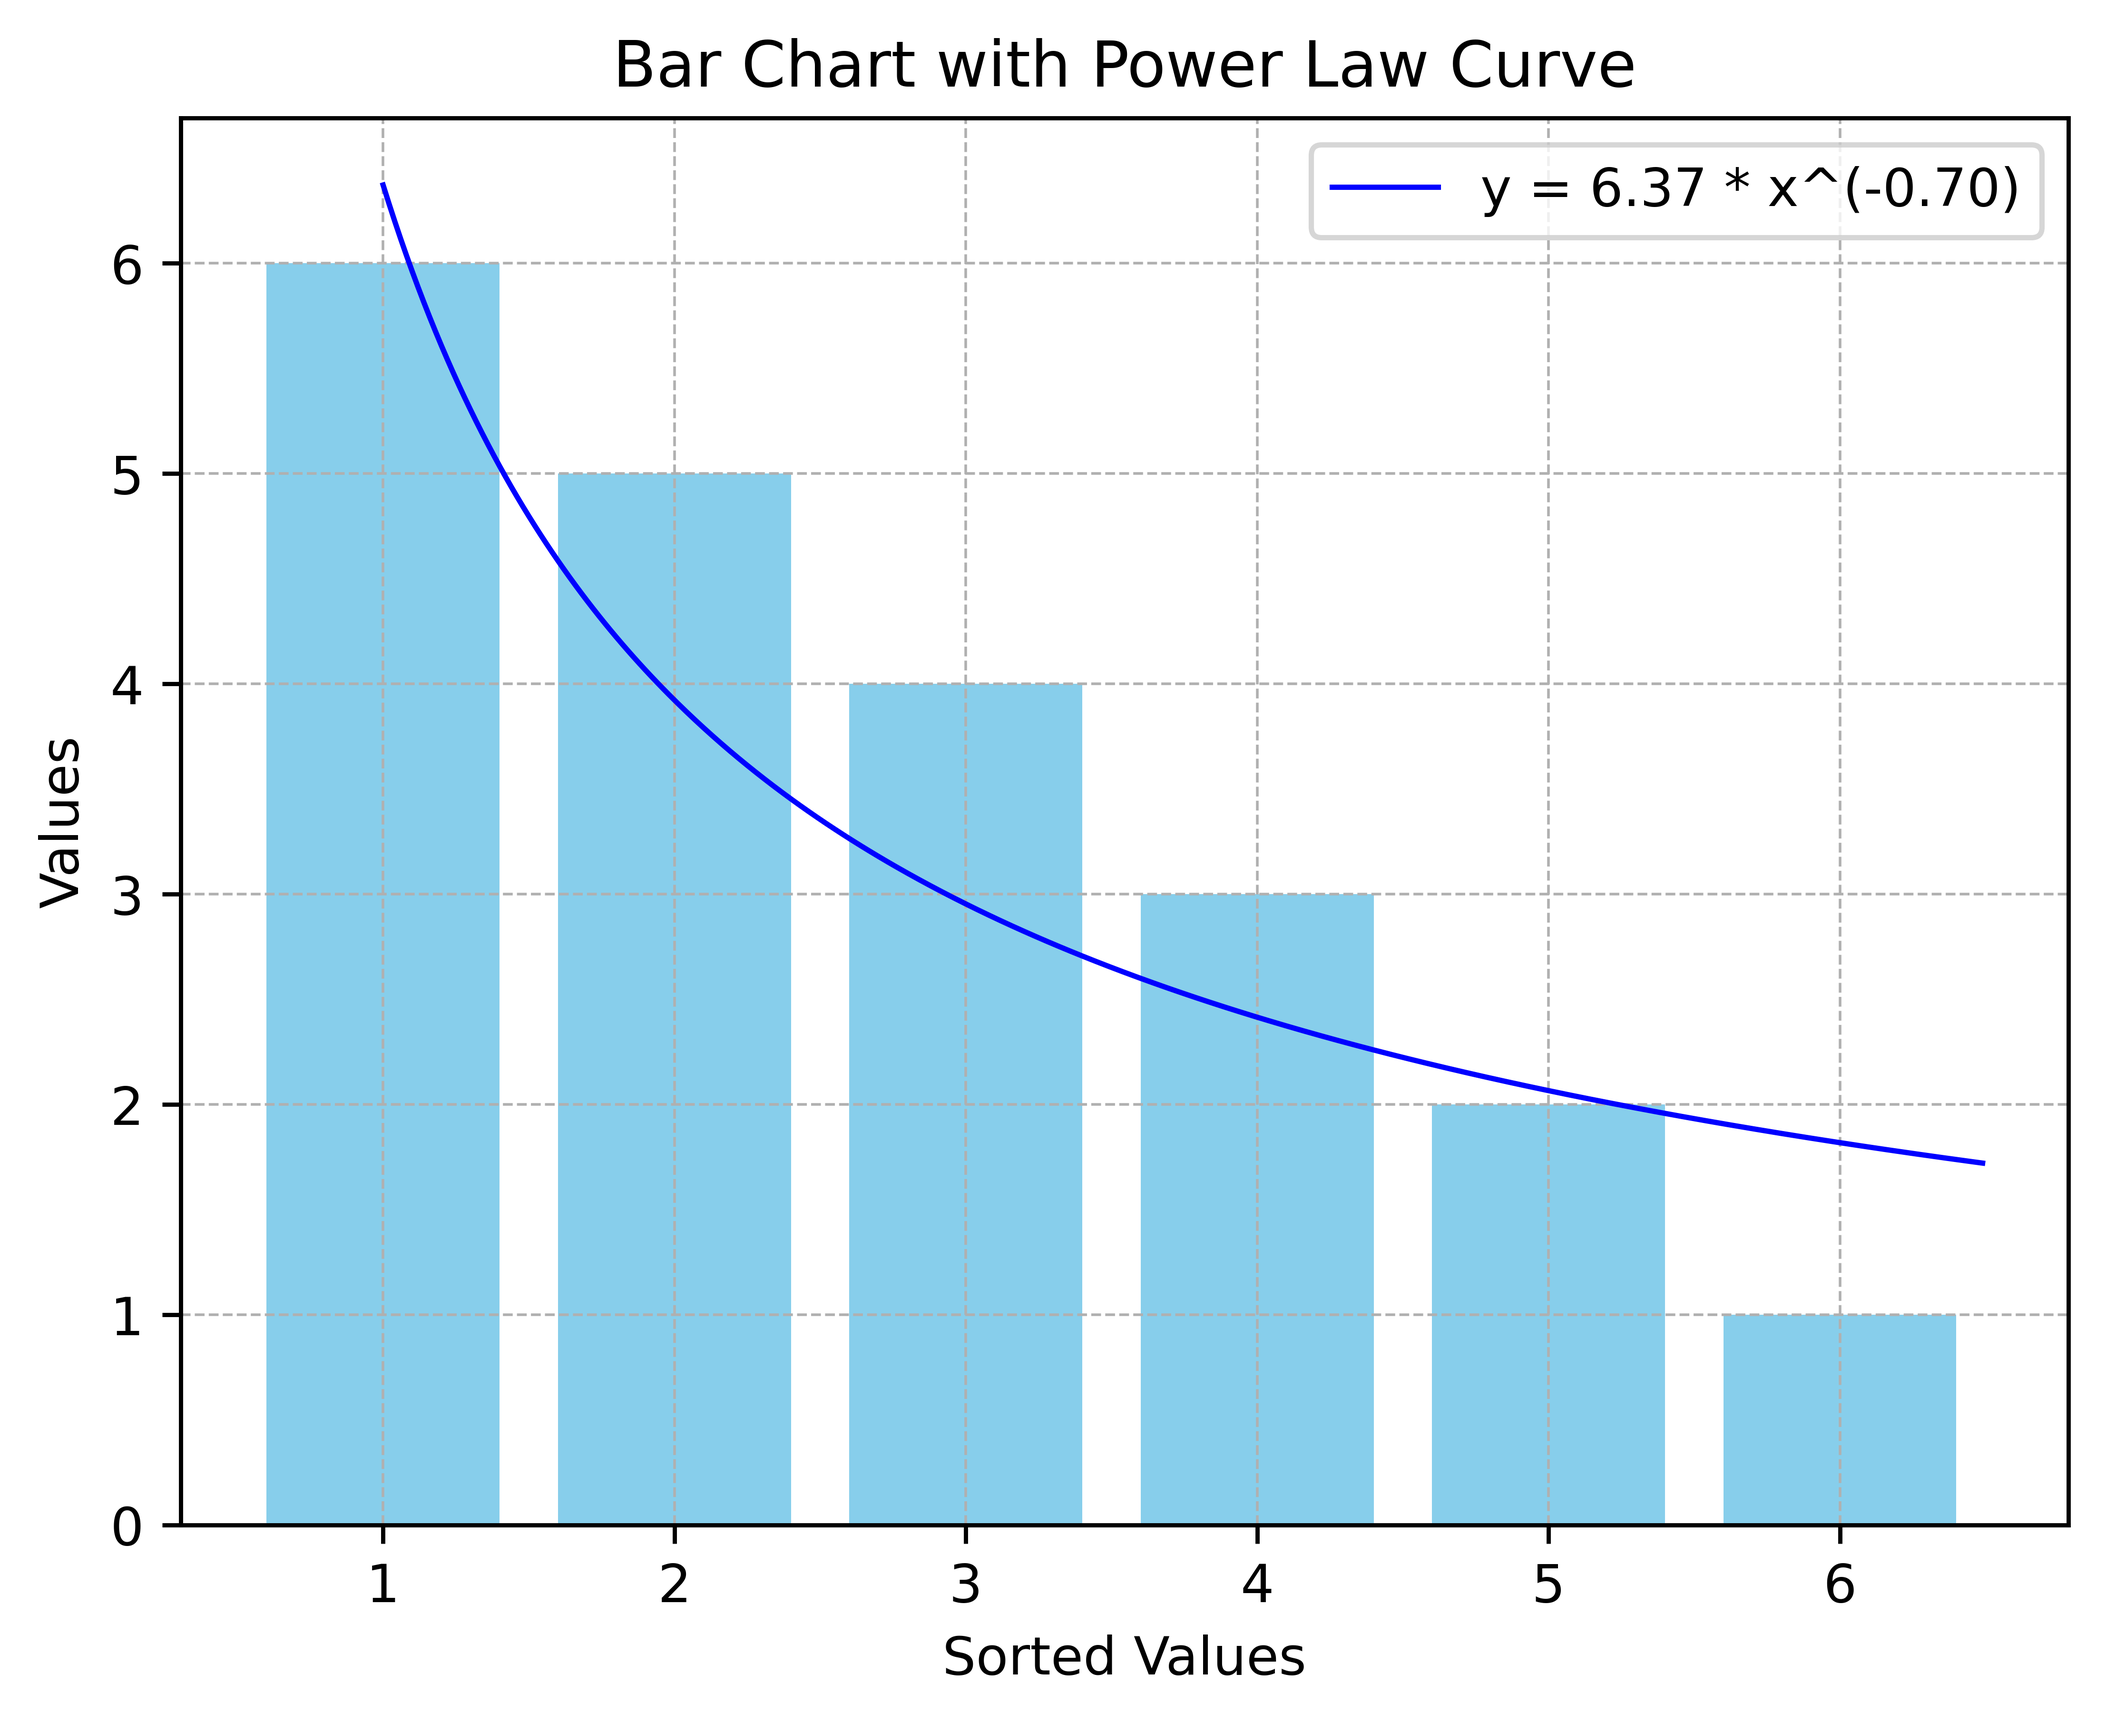
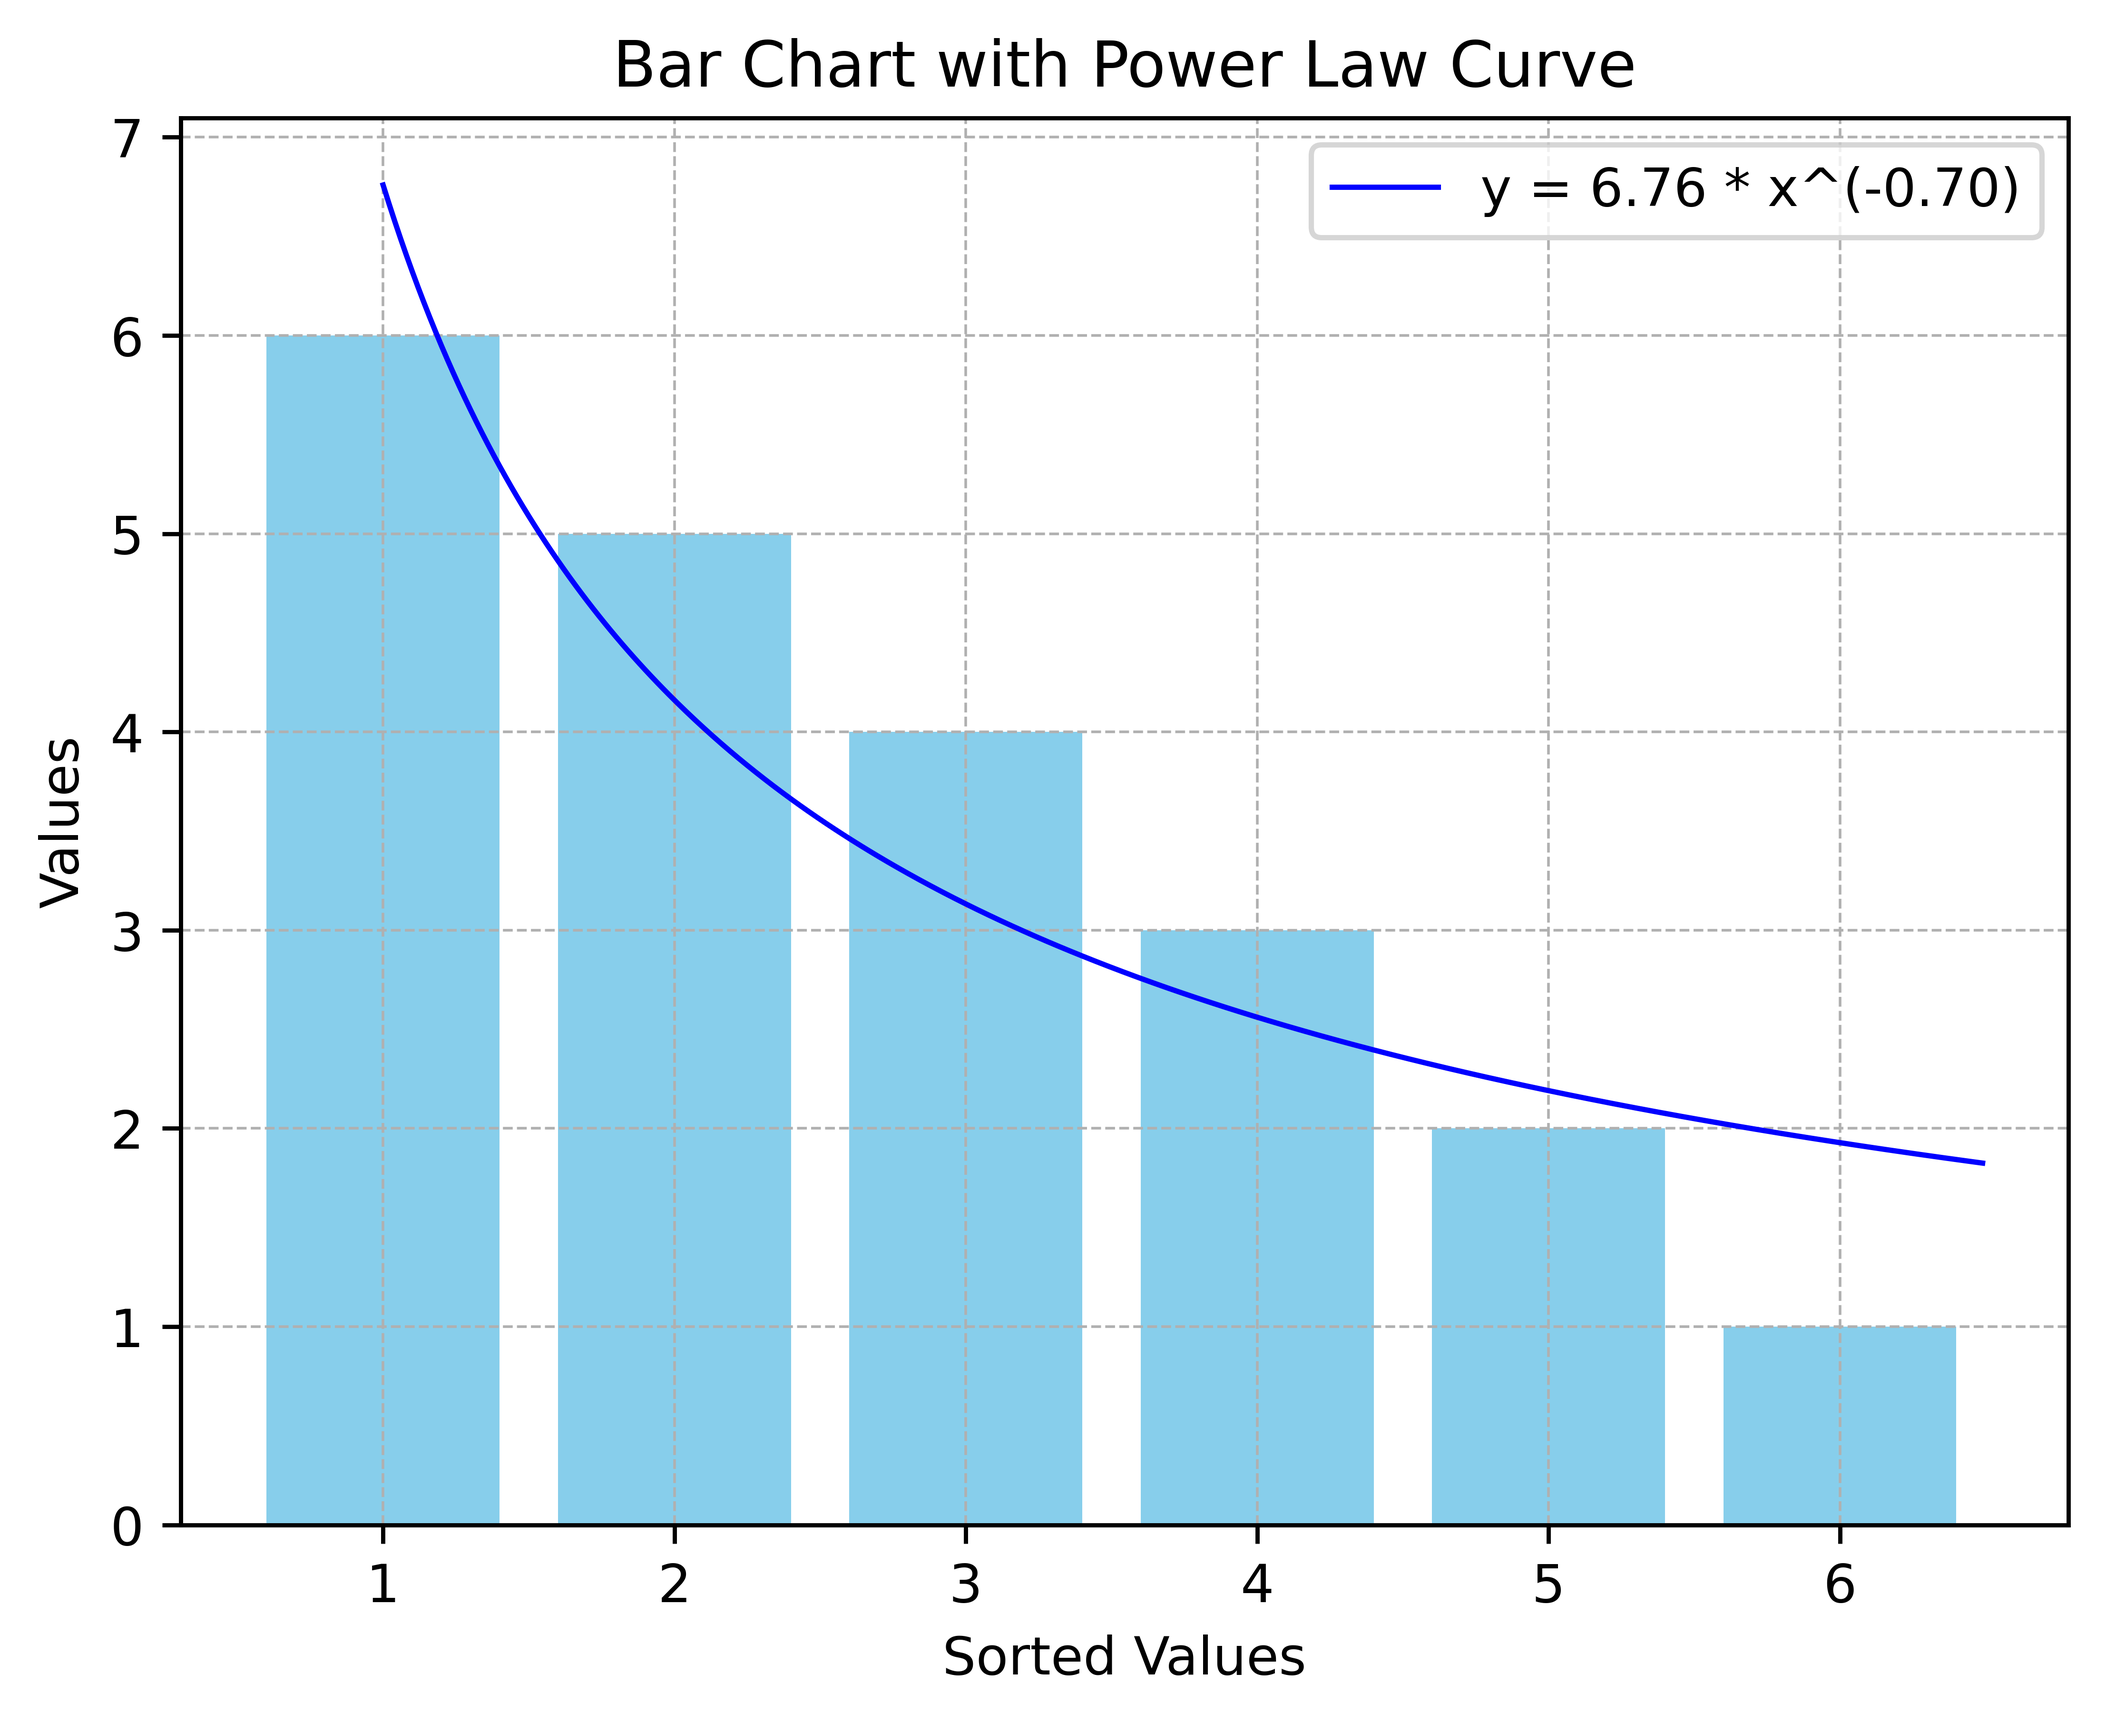
fix: fit_intercept=False

diff --git a/insight_analysis/distribution_tools/outstanding_2_check.py b/insight_analysis/distribution_tools/outstanding_2_check.py
@@ -21,7 +21,7 @@ def outstanding_2_significance(data: Series) -> float:
     i = np.arange(1, len(Y) + 1)
     X = i ** (-0.7)
 
-    model = LinearRegression()
+    model = LinearRegression(fit_intercept=False)
     model.fit(X.reshape(-1, 1), Y)
     Y_pred = model.predict(X.reshape(-1, 1))
     # print(Y_pred)
@@ -46,7 +46,7 @@ def outstanding_2_significance(data: Series) -> float:
 
     # print("p_value: ", p_value)
 
-    oustanding_2_plot(Y, a=model.coef_[0], b = -0.7)
+    # oustanding_2_plot(Y, a=model.coef_[0], b = -0.7)
 
     return p_value
 
@@ -111,11 +111,11 @@ def oustanding_2_plot(values: list, a: float, b: float) -> None:
 
 if __name__ == '__main__':
 
-    # print(outstanding_2_check(Series([1, 2, 3, 4, 5, 6]), threshold=2/6))
-    # p_value:  0.43866320484826793   False
-    # print(outstanding_2_check(Series([1, 2, 3, 4, 10, 20]), threshold=2/6))
-    # # p_value:  0.32057748133343134   True
-    print(outstanding_2_check(Series([1, 2, 3, 4, 15, 20]), threshold=2/6))
-    # p_value:  0.23752084891573466   True
-    # print(outstanding_2_check(Series([1, 2, 3, 4, 5, 20]), threshold=2/6))
-    # # p_value:  0.7067535526959948    False
+    # print(outstanding_2_check(Series([1, 2, 3, 4, 5, 6]), threshold=0.1))
+    # p_value:  0.5023839946579908    False
+    # print(outstanding_2_check(Series([1, 2, 3, 4, 10, 20]), threshold=0.1))
+    # # p_value:  0.0981688097939577    True
+    print(outstanding_2_check(Series([1, 2, 3, 4, 15, 20]), threshold=0.1))
+    # # p_value:  0.08078214808217588   True
+    # print(outstanding_2_check(Series([1, 2, 3, 4, 5, 20]), threshold=0.1))
+    # # p_value:  0.22370415276637567   Fase

diff --git a/insight_analysis/distribution_tools/outstanding_1_check.py b/insight_analysis/distribution_tools/outstanding_1_check.py
@@ -20,7 +20,7 @@ def outstanding_1_significance(data: Series, beita=0.7) -> float:
     i = np.arange(1, len(Y) + 1)
     X = i ** (-beita)
 
-    model = LinearRegression()
+    model = LinearRegression(fit_intercept=False)
     model.fit(X.reshape(-1, 1), Y)
     Y_pred = model.predict(X.reshape(-1, 1))
     # print(Y_pred)
